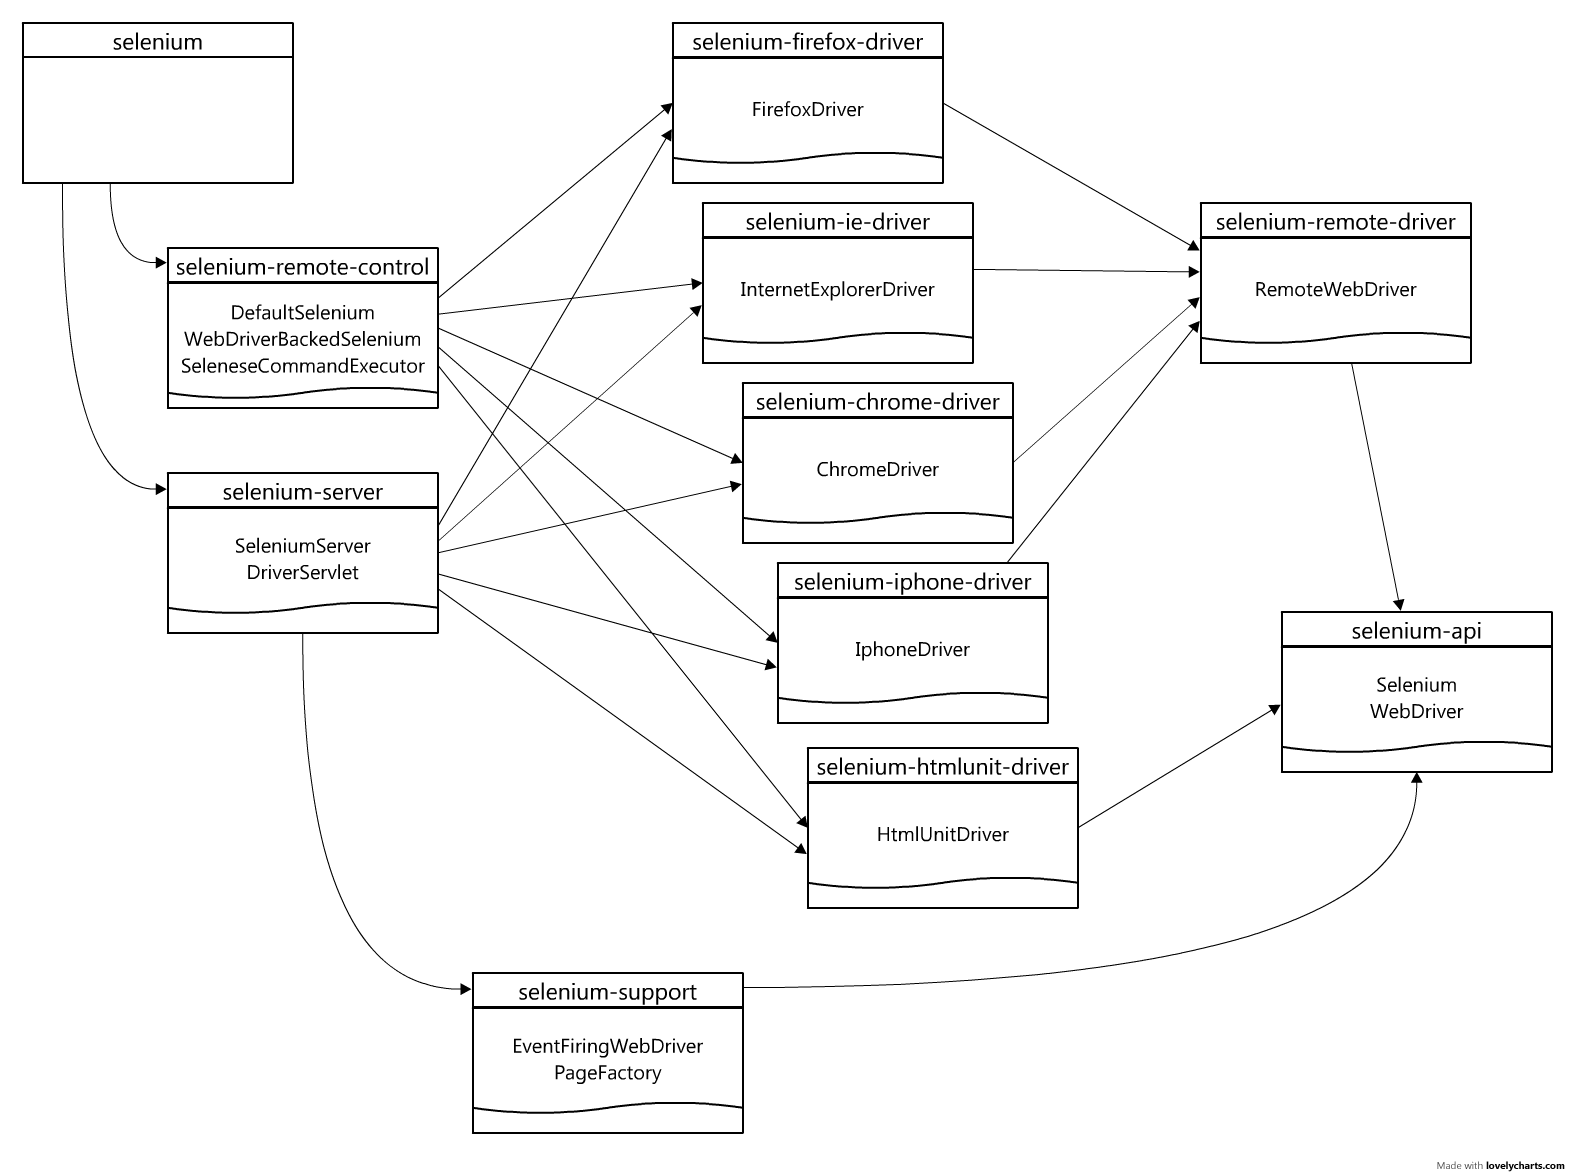
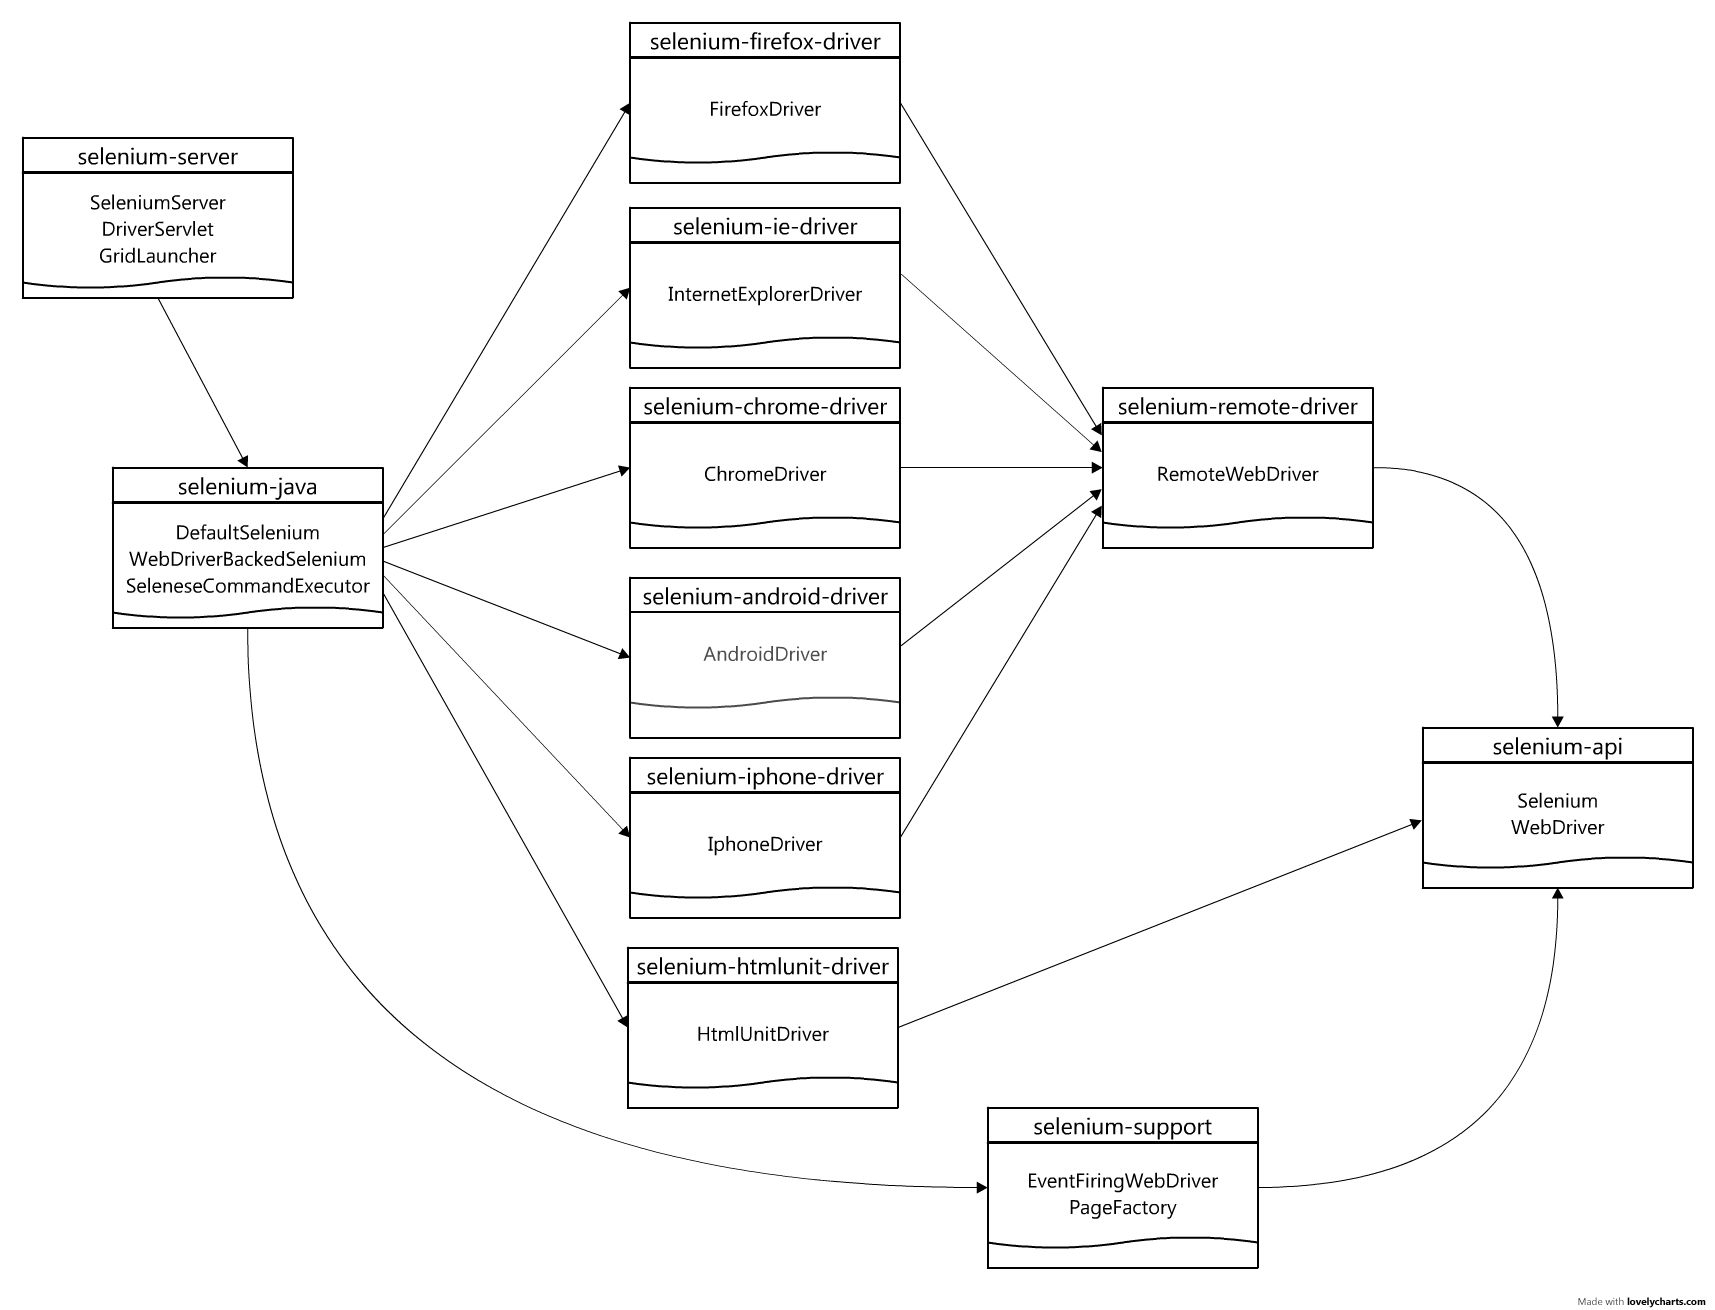
MichaelTamm: Updated Maven documentation

diff --git a/src/main/webapp/download/maven.html b/src/main/webapp/download/maven.html
@@ -14,15 +14,18 @@
   artifacts directly in the central Maven repository here:
   <a href="http://repo1.maven.org/maven2/org/seleniumhq/selenium/">http://repo1.maven.org/maven2/org/seleniumhq/selenium/</a></p>
 
-  <p>In order start using Selenium Remote Control or one of
+  <p>In order start using <tt>DefaultSelenium</tt> or one of
   the new <tt>WebDriver</tt> implementations in your Maven project,
   just add the following dependcy to your <tt>pom.xml</tt>:<pre>
     &lt;dependency&gt;
         &lt;groupId&gt;org.seleniumhq.selenium&lt;/groupId&gt;
-        &lt;artifactId&gt;selenium-remote-control&lt;/artifactId&gt;
-        &ltversion&gt;...&lt;/version&gt;
+        &lt;artifactId&gt;selenium-java&lt;/artifactId&gt;
+        &ltversion&gt;2.0rc3&lt;/version&gt;
     &lt;/dependency&gt;  
 </pre></p>
+  
+  <p><i>Note:</i> Before version 2.0rc3 the artifact, was named
+  <tt>selenium-remote-control</tt>.</p>
   
   <p>To get an overview of the different Selenium Maven artifacts,
   click on the thumbnail below to open a diagram, which shows
@@ -50,13 +53,13 @@
   
   <p>If you know, that you will only use a certain <tt>WebDriver</tt>
   implementation, e.g. the <tt>FirefoxDriver</tt>, you don't need to
-  depend on the <tt>selenium-remote-control</tt> artifact (which has
+  depend on the <tt>selenium-java</tt> artifact (which has
   a lot of transitive dependencies). Instead you can just add the
   dependency to the artifact you need, e.g.<pre>
     &lt;dependency&gt;
         &lt;groupId&gt;org.seleniumhq.selenium&lt;/groupId&gt;
         &lt;artifactId&gt;selenium-firefox-driver&lt;/artifactId&gt;
-        &ltversion&gt;...&lt;/version&gt;
+        &ltversion&gt;2.0rc3&lt;/version&gt;
     &lt;/dependency&gt;  
 </pre></p>
 
@@ -69,12 +72,13 @@
     &lt;dependency&gt;
         &lt;groupId&gt;org.seleniumhq.selenium&lt;/groupId&gt;
         &lt;artifactId&gt;selenium-server&lt;/artifactId&gt;
-        &ltversion&gt;...&lt;/version&gt;
+        &ltversion&gt;2.0rc3&lt;/version&gt;
     &lt;/dependency&gt;  
-</pre> Now you can create a <tt>SeleniumServer</tt> instance yourself and start it.
-   Be aware, that the <tt>selenium-server</tt> artifact has a dependency to the
-   <tt>servlet-api-2.5</tt> artifact, which you need to exclude, if your project
-   will be run in a web application container.</p>
+</pre> Now you can create a <tt>SeleniumServer</tt> instance yourself and start it.</p>
+
+   <p><i>Note:</i> Be aware, that the <tt>selenium-server</tt> artifact has
+   a dependency to the <tt>servlet-api-2.5</tt> artifact, which you should
+   exclude, if your project will be run inside a web application container.</p>
 
 </body>
 </html>
